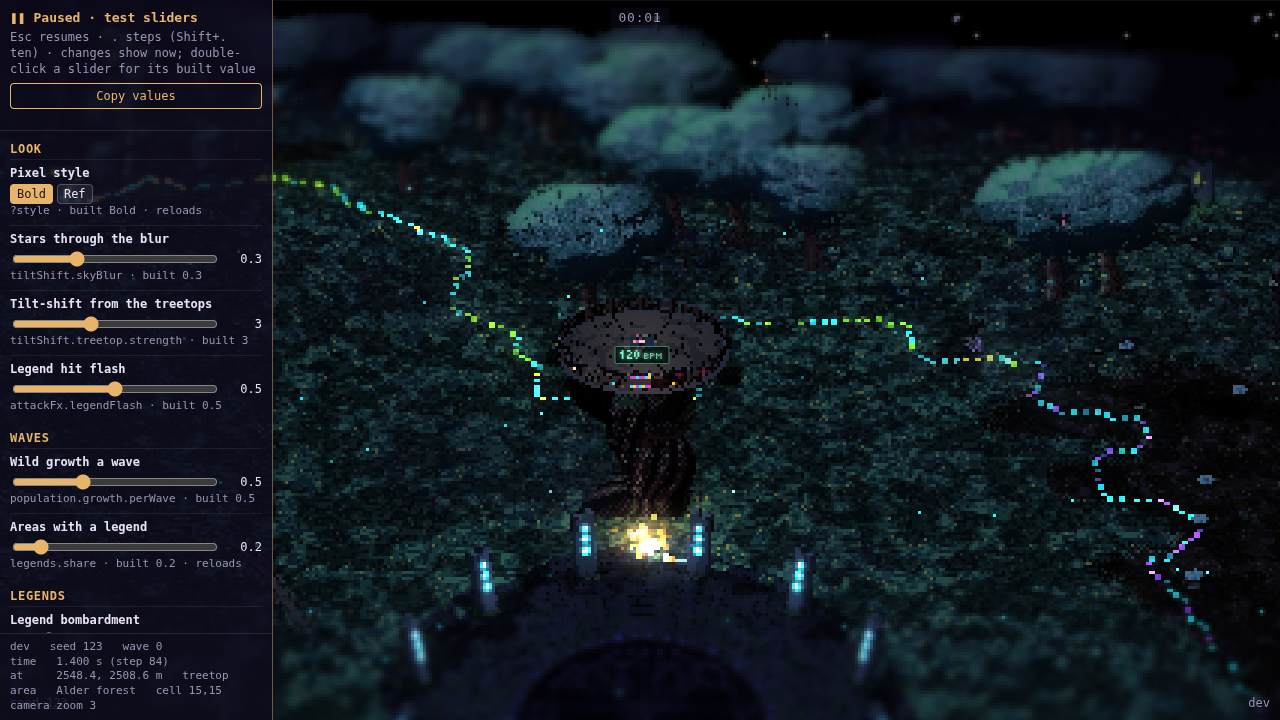
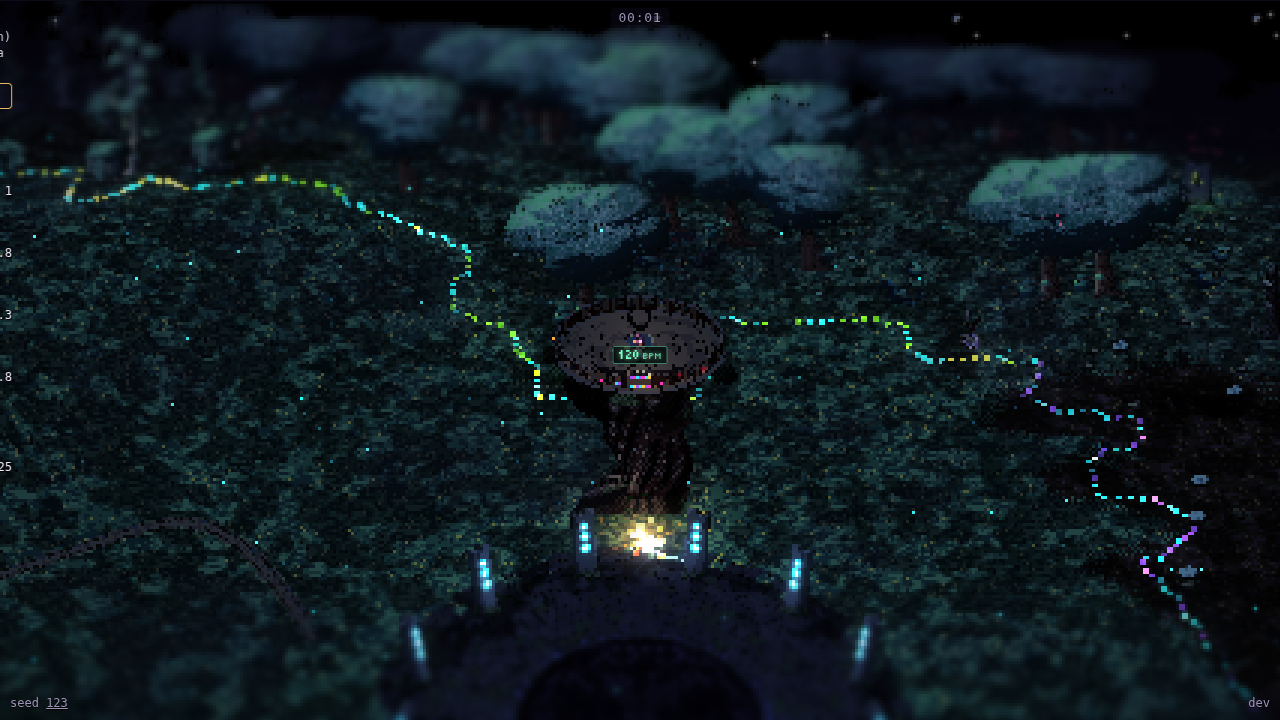
Pause sliders: transparent, scrollbar on the left, grouped by PR newest first; bubble-size sliders backfilled (#726)
Ed (2026-10-12): "Make the panel transparent"; "Panel scroll bar down the left edge"; "The panel shows all the
sliders in PR order; we can backfill some recent ones". Each registry entry has its PR and that PR's short name
(the heading "#290 Legend layers", in Copy values too), newest first. Backfilled: the bubbles' sizes (bubbles.scale,
levelScale for baby, adult and legend), read every frame. Not backfilled, not live on a frozen frame: koi size (a
shader uniform set once), beach finds and trails (made with the map), the carrier's back (art), the arrival flight
(only while arriving), biome lakes (the chart's).

Claude-Session: https://claude.ai/code/session_01MR6jyHx6mcGYyfzATvhXK3

diff --git a/src/ui/decide.ts b/src/ui/decide.ts
@@ -7,7 +7,7 @@
 // panel; Ed submits it and the coordinator acts on it. The page holds no secret: the issue is Ed's to send. Copy puts the
 // same line on the clipboard instead.
 import { button, h } from "./dom";
-import { DECISION_LIST, decisionLine, groupOf, issueUrl, knobParam, setKnob, currentValue, valuesText, type Decision } from "./decisions";
+import { byPr, DECISION_LIST, decisionLine, groupOf, issueUrl, knobParam, setKnob, currentValue, valuesText, type Decision } from "./decisions";
 export * from "./decisions";
 
 /** What the panel needs from the game. */
@@ -133,30 +133,37 @@ export function applyDecision(host: DecideHost, d: Decision, v: string | number 
 // The pause page's test sliders (Ed, 2026-10-12: "For test sliders like this, we should put them all on the pause page, along
 // with a button that copies all the slider names and positions"; "down the left side, sliding in from the left, scrollable, and
 // the pause page shouldn't put any other overlay on the game so I can see what the sliders [do]"). Esc freezes the game and this
-// slides in down the left edge: every entry of config/decisions.json (the same registry as the decisions panel) by its group,
+// slides in down the left edge, transparent over the game (Ed: "Make the panel transparent"; its text shadowed to read), its
+// scrollbar along the screen's edge (Ed: "Panel scroll bar down the left edge"): every entry of config/decisions.json (the same
+// registry as the decisions panel) under the PR that added it, newest first,
 // each change live on the frozen frame (the frozen game draws every frame: main.ts), Copy values for all of them as plain text,
 // and the freeze's own stamp at its foot, so nothing else covers the game.
 const PAUSE_CSS = `
-#pause-sliders { position: fixed; top: 0; left: 0; bottom: 0; width: 272px; z-index: 31; display: flex; flex-direction: column; background: var(--panel, rgba(14,11,28,.86)); border-right: 1px solid var(--accent-dim, rgba(232,180,106,.45)); font: 12px/1.35 ui-monospace, Menlo, Consolas, monospace; color: var(--ink, #e8e2f4); transform: translateX(-100%); transition: transform .22s ease-out; pointer-events: auto; }
+#pause-sliders { position: fixed; top: 0; left: 0; bottom: 0; width: 280px; z-index: 31; display: flex; flex-direction: column; background: none; font: 12px/1.35 ui-monospace, Menlo, Consolas, monospace; color: #f2ecfb; text-shadow: 0 0 2px #000, 0 0 3px #000, 1px 1px 0 #000; transform: translateX(-105%); transition: transform .22s ease-out; pointer-events: none; }
 #pause-sliders.open { transform: translateX(0); }
-#pause-sliders .top { padding: 9px 10px 7px; border-bottom: 1px solid rgba(232,226,244,.12); }
+#pause-sliders > * { pointer-events: auto; }
+#pause-sliders .top { padding: 9px 10px 7px 16px; }
 #pause-sliders .title { color: var(--accent, #e8b46a); font-weight: 700; font-size: 13px; }
-#pause-sliders .hint { color: var(--dim, #9a93b4); margin: 2px 0 6px; }
-#pause-sliders .copyall { font: inherit; width: 100%; background: transparent; color: var(--accent, #e8b46a); border: 1px solid var(--accent, #e8b46a); border-radius: 4px; padding: 4px 6px; cursor: pointer; }
-#pause-sliders .copyall:hover { background: var(--accent, #e8b46a); color: #1d1408; }
+#pause-sliders .hint { color: #d6cfe6; margin: 2px 0 6px; }
+#pause-sliders .copyall { font: inherit; text-shadow: inherit; width: 100%; background: rgba(14,11,28,.25); color: var(--accent, #e8b46a); border: 1px solid var(--accent, #e8b46a); border-radius: 4px; padding: 4px 6px; cursor: pointer; }
+#pause-sliders .copyall:hover { background: var(--accent, #e8b46a); color: #1d1408; text-shadow: none; }
 #pause-sliders .status { color: var(--accent, #e8b46a); font-size: 11px; min-height: 1em; margin-top: 3px; white-space: pre-wrap; }
-#pause-sliders .list { flex: 1; overflow: auto; padding: 0 10px 8px; }
-#pause-sliders h3 { margin: 10px 0 2px; font-size: 12px; color: var(--accent, #e8b46a); text-transform: uppercase; letter-spacing: .06em; }
-#pause-sliders .s { padding: 5px 0 6px; border-top: 1px solid rgba(232,226,244,.08); }
+#pause-sliders .list { flex: 1; overflow-y: auto; direction: rtl; padding: 0 10px 8px 6px; scrollbar-color: var(--accent, #e8b46a) rgba(0,0,0,.35); scrollbar-width: thin; }
+#pause-sliders .list > * { direction: ltr; }
+#pause-sliders .list::-webkit-scrollbar { width: 8px; }
+#pause-sliders .list::-webkit-scrollbar-track { background: rgba(0,0,0,.35); }
+#pause-sliders .list::-webkit-scrollbar-thumb { background: var(--accent, #e8b46a); border-radius: 4px; border: 1px solid #000; }
+#pause-sliders h3 { margin: 10px 0 2px; font-size: 12px; color: var(--accent, #e8b46a); letter-spacing: .04em; }
+#pause-sliders .s { padding: 4px 0 5px; }
 #pause-sliders .label { font-weight: 700; }
 #pause-sliders .label.changed { color: var(--accent, #e8b46a); }
 #pause-sliders .ctl { display: flex; gap: 4px; align-items: center; flex-wrap: wrap; margin-top: 2px; }
-#pause-sliders input[type=range] { flex: 1; min-width: 0; accent-color: var(--accent, #e8b46a); }
+#pause-sliders input[type=range] { flex: 1; min-width: 0; accent-color: var(--accent, #e8b46a); filter: drop-shadow(0 0 1px #000); }
 #pause-sliders .val { width: 38px; text-align: right; }
-#pause-sliders .opt { font: inherit; color: inherit; background: rgba(255,255,255,.07); border: 1px solid rgba(232,226,244,.25); border-radius: 4px; padding: 1px 6px; cursor: pointer; }
-#pause-sliders .opt.on { background: var(--accent, #e8b46a); color: #1d1408; border-color: var(--accent, #e8b46a); }
-#pause-sliders .key { color: var(--dim, #9a93b4); font-size: 11px; }
-#pause-sliders .stamp { margin: 0; padding: 6px 10px; border-top: 1px solid rgba(232,226,244,.12); color: var(--dim, #9a93b4); white-space: pre; font-size: 11px; }
+#pause-sliders .opt { font: inherit; text-shadow: inherit; color: inherit; background: rgba(14,11,28,.25); border: 1px solid rgba(242,236,251,.55); border-radius: 4px; padding: 1px 6px; cursor: pointer; }
+#pause-sliders .opt.on { background: var(--accent, #e8b46a); color: #1d1408; border-color: var(--accent, #e8b46a); text-shadow: none; }
+#pause-sliders .key { color: #d6cfe6; font-size: 11px; }
+#pause-sliders .stamp { margin: 0; padding: 6px 10px 6px 16px; color: #d6cfe6; white-space: pre; font-size: 11px; }
 `;
 
 /** The pause page's test sliders: down the left edge while the game is frozen (Esc). */
@@ -174,9 +181,11 @@ export class PauseSliders {
     const copy = button("Copy values", () => this.copy(), { class: "copyall", title: "Copy every slider's name, key, value and built default, to paste to the coordinator" });
     const top = h("div", { class: "top", html: `<div class="title">❚❚ Paused · test sliders</div><p class="hint">Esc resumes · . steps (Shift+. ten) · changes show now; double-click a slider for its built value</p>` }, copy, this.status);
     const body = h("div", { class: "list" });
-    for (const g of [...new Set(list.map(groupOf))]) {
+    // (by the PR that added them, newest first: Ed, 2026-10-12, "The panel shows all the sliders in PR order")
+    const ordered = byPr(list);
+    for (const g of [...new Set(ordered.map(groupOf))]) {
       body.append(h("h3", { text: g }));
-      for (const d of list.filter(x => groupOf(x) === g)) body.append(this.row(d));
+      for (const d of ordered.filter(x => groupOf(x) === g)) body.append(this.row(d));
     }
     this.el.append(top, body, this.stamp);
     for (const ev of ["pointerdown", "keydown", "keyup", "wheel", "contextmenu"]) this.el.addEventListener(ev, e => { if (!(e instanceof KeyboardEvent && (e.code === "Escape" || e.code === "Period"))) e.stopPropagation(); }); // (its own presses don't fly her; Esc and . still go to the freeze)

diff --git a/src/ui/decisions.ts b/src/ui/decisions.ts
@@ -3,7 +3,7 @@
 import DECISIONS from "../../config/decisions.json";
 
 export type Control = { type: "toggle" } | { type: "choice"; options: { value: string; label: string }[] } | { type: "slider"; min: number; max: number; step: number };
-export interface Decision { id: string; /** the feature it belongs to (the pause page's heading) */ group?: string; label: string; note: string; control: Control; default: string | number | boolean; apply: { knob?: string; param?: string; reload?: boolean } }
+export interface Decision { id: string; /** the pull request that added it */ pr?: number; /** that PR's short name (the pause page's heading: "#pr group") */ group?: string; label: string; note: string; control: Control; default: string | number | boolean; apply: { knob?: string; param?: string; reload?: boolean } }
 export const DECISION_LIST = (DECISIONS as unknown as { decisions: Decision[] }).decisions;
 /** Where an issue is opened. */
 export const ISSUES = "https://github.com/edsaperia/witch/issues/new";
@@ -48,16 +48,20 @@ export function applyKnobParams(tuning: object, params: URLSearchParams): void {
   }
 }
 
-/** Its feature (the pause page groups by it). */
-export const groupOf = (d: Decision): string => d.group ?? "Other";
+/** Its group's heading: the PR that added it and that PR's short name ("#495 Ground fog"; Ed, 2026-10-12: "The panel shows all
+ *  the sliders in PR order"). */
+export const groupOf = (d: Decision): string => (d.pr ? `#${d.pr} ${d.group ?? ""}`.trim() : d.group ?? "Other");
+/** The registry in the pause page's order: by PR, newest first (those without one last), each PR's in the registry's order. */
+export const byPr = (list: readonly Decision[]): Decision[] => list.map((d, i) => ({ d, i })).sort((a, b) => (b.d.pr ?? -1) - (a.d.pr ?? -1) || a.i - b.i).map(x => x.d);
 /** What it changes, as Ed would name it to a builder: the tuning key, or the URL switch. */
 export const keyOf = (d: Decision): string => d.apply.knob ?? `?${d.apply.param}`;
 
 /** The pause page's Copy values (Ed, 2026-10-12: "a button that copies all the slider names and positions so I can paste them
- *  to you here"): a heading line (the game's version and seed), then a line for every test slider and switch by group: its
+ *  to you here"): a heading line (the game's version and seed), then a line for every test slider and switch under its PR's
+ *  heading ("#290 Legend layers:", newest PR first):
  *  label, its tuning key, its value now and its built default (● when they differ). Plain text, paste-ready. */
-export function valuesText(values: ReadonlyMap<string, string | number | boolean>, version: string, seed: number, list: readonly Decision[] = DECISION_LIST): string {
-  const out = [`Test sliders · ${version} · seed ${seed}`];
+export function valuesText(values: ReadonlyMap<string, string | number | boolean>, version: string, seed: number, all: readonly Decision[] = DECISION_LIST): string {
+  const out = [`Test sliders · ${version} · seed ${seed}`], list = byPr(all);
   for (const g of [...new Set(list.map(groupOf))]) {
     out.push("", `${g}:`);
     for (const d of list.filter(x => groupOf(x) === g)) {

diff --git a/src/ui/decide.test.ts b/src/ui/decide.test.ts
@@ -2,7 +2,7 @@
 // a confirmed choice makes the issue link and line the coordinator reads.
 import { describe, expect, it } from "vitest";
 import { TUNING } from "../rules/tuning";
-import { applyKnobParams, currentValue, decisionLine, DECISION_LIST, groupOf, issueUrl, keyOf, knobAt, knobParam, parseValue, setKnob, valuesText } from "./decide";
+import { applyKnobParams, byPr, currentValue, decisionLine, DECISION_LIST, groupOf, issueUrl, keyOf, knobAt, knobParam, parseValue, setKnob, valuesText } from "./decide";
 
 /** The URL switches the game reads (src/main.ts), and their values. */
 const PARAMS: Record<string, string[]> = { style: ["bold", "ref"] };
@@ -61,13 +61,17 @@ describe("the decisions panel", () => {
     for (const s of ["v1100 · abc123", "seed: 123", "\"style\": \"bold\"", "?decide"]) expect(body).toContain(s);
   });
 
-  it("the pause page's test sliders (Ed, 2026-10-12): every entry has a feature group; Copy values gives a line each, label, key, value and built default", () => {
-    for (const d of DECISION_LIST) expect(d.group, d.id).toBeTruthy();
+  it("the pause page's test sliders (Ed, 2026-10-12): every entry has its PR and a short name, newest PR first; Copy values gives a line each, label, key, value and built default", () => {
+    for (const d of DECISION_LIST) { expect(d.pr, d.id).toBeGreaterThan(0); expect(d.group, d.id).toBeTruthy(); }
+    const prs = byPr(DECISION_LIST).map(d => d.pr!);
+    for (let i = 1; i < prs.length; i++) expect(prs[i]).toBeLessThanOrEqual(prs[i - 1]);
+    expect(groupOf(DECISION_LIST.find(d => d.id === "bombard")!)).toBe("#290 Legend layers");
     const values = new Map<string, string | number | boolean>(DECISION_LIST.map(d => [d.id, d.default]));
     const sky = DECISION_LIST.find(d => d.id === "skyBlur")!;
     values.set("skyBlur", 0.45);
     const text = valuesText(values, "v123", 42), lines = text.split("\n");
     expect(lines[0]).toBe("Test sliders · v123 · seed 42");
+    expect(lines[2]).toBe(`${groupOf(byPr(DECISION_LIST)[0])}:`); // (the newest PR's first)
     for (const g of new Set(DECISION_LIST.map(groupOf))) expect(lines).toContain(`${g}:`);
     expect(lines).toContain(`● ${sky.label} · tiltShift.skyBlur = 0.45 (built ${sky.default})`);
     const style = DECISION_LIST.find(d => d.id === "style")!;

diff --git a/CLAUDE.md b/CLAUDE.md
@@ -172,7 +172,7 @@ Literal, stable names for the parts of the game, as Ed and the builders agree th
 - **Game clock**: the time played, mm:ss from 0, top centre (Ed, 2026-10-06; `clockText`, `clockSeconds` in `rules/leypulse.ts`, `#clock` in `index.html`), from the party spell (`party.spellAt`: undefined, from the start of play; null, waiting at 00:00); it stops while the game is paused, and a soundsystem lost or the speakers coming up pop out under it. The wave timer bar on the right and the cue toward the dancefloor are gone (Ed, 2026-10-06).
 - **Party spell**: how a run starts (Ed, 2026-10-06: "you are standing behind your decks in your treehouse, there is a button on the screen that says "CAST THE PARTY SPELL", when you press it, the witch does a spellcasting animation, the pulse appears, and starts going around the dancefloor runestone ring, and you can start moving around"): `party.spellAt` null until then; then (Ed, 2026-10-06) the spell is a **scroll** with 🎶 on it, bottom right of the character creator (its panel on the left): nearing it the 🎶 glows, the paper ripples and trembles and the screen darkens; clicked (or Enter), it grows to fill the screen, crackles, bursts and is gone, about 1.8 s, and as that clears play starts with the spell cast (`src/ui/spellScroll.ts`, `#creator-start`; its sounds `hum`, `rustle`, `crackle`, `burst` in `platform/audio/spell.ts`, the tuning's `sfx.spell`; `node tools/smoke/spell-scroll.cjs` films it; prefers-reduced-motion tones it down); without the creator, Enter or her spell key (`castParty` in the controls; `castPartySpell` in `rules/party.ts`), nothing of hers moving and neither the game clock nor the boot-up running; cast, it's the game time (the renderer's hook for the ring's pulse), she plays the cast (the `liftSigil` pose and a burst of amber and rose sparkles) for `PARTY_CAST` seconds, still held, then can move. `?creator=0` (the tools and smoke runs) starts at once (`spellAt` undefined) unless `?spell=wait`; `?spell=auto` starts at once anywhere.
 - **Debug overlay**: the panel toggled by `~` or a three-finger tap: frame rate, seed, area type, mode.
-- **Test sliders / pause page** (Ed, 2026-10-12): every live test slider or switch a builder adds for Ed goes in the decisions registry (`config/decisions.json`: id, `group` (its feature), label, note, control, built default, and the tuning knob or URL switch it sets), never a panel of its own. Esc freezes the game (the pause page: `platform/freeze.ts`, quiet) and they all slide in down the left edge by group (`PauseSliders` in `ui/decide.ts`), scrollable, nothing else over the game; a change shows at once on the frozen frame. **Copy values** puts every one on the clipboard as plain text, a line each (label · tuning key = value (built default), ● when changed) for Ed to paste to the coordinator. The same entries are the decisions panel's (F2, `?decide`).
+- **Test sliders / pause page** (Ed, 2026-10-12): every live test slider or switch a builder adds for Ed goes in the decisions registry (`config/decisions.json`: id, `pr` (the pull request adding it) and `group` (that PR's short name), label, note, control, built default, and the tuning knob or URL switch it sets; a knob the game reads live, so a change shows on the frozen frame), never a panel of its own. Esc freezes the game (the pause page: `platform/freeze.ts`, quiet) and they all slide in down the left edge, transparent, its scrollbar along the screen's edge, under their PRs ("#495 Ground fog"), newest first (`PauseSliders` in `ui/decide.ts`), nothing else over the game. **Copy values** puts every one on the clipboard as plain text, a line each under each PR's heading (label · tuning key = value (built default), ● when changed) for Ed to paste to the coordinator. The same entries are the decisions panel's (F2, `?decide`).
 - **Partified**: an area the party has reached: a soundsystem in its clearing, string lights round it, motes. Home is partified from the start.
 - **Wave**: one step of the party spreading: one area per witch (`party.areasPerWave`), the next on the ley line's planned route, partified as the ley pulse reaches its stone (Ed, 2026-10-09: "Pure constant speed": `leyLines.pulseSpeed` 4 m/s times the tempo along the route's own curves, so each gap is its link's length over the speed; `rules/pulseRoute.ts`) after home's boot-up (N brings the next one, P pauses it); a fallen soundsystem doesn't move it (Ed, 2026-10-08). The bedroom's Waves dropdown picks slow 2.5, normal 4, fast 6 m/s or off; `?pulse=<m/s>|off` (and the old `?wave=off`).
 - **String lights**: lines of party bulbs hung between pairs of trees round a partified area's clearing.
